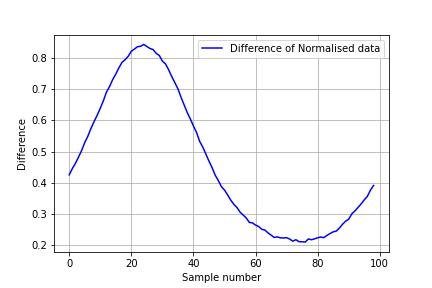
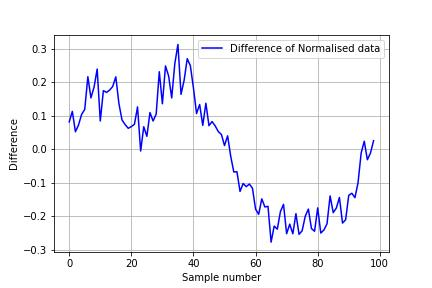
Correct Run

Changed region(s): [[0.0, 0.125, 0.9028, 0.875], [0.0602, 0.625, 0.1204, 0.6562]]

diff --git a/Code/Offline Processing/Subtraction.py b/Code/Offline Processing/Subtraction.py
@@ -21,8 +21,8 @@ reference = np.genfromtxt(data_plot_path, delimiter='\n')
 
 #Normalise data to reference
 reference = reference[:-1]
-scaling_factor = np.amax(reference)
-response = response / scaling_factor
+scaling_factor = np.amax(reference) / np.amax(response)
+response = response * scaling_factor
 
 #Find difference
 output = reference - response
